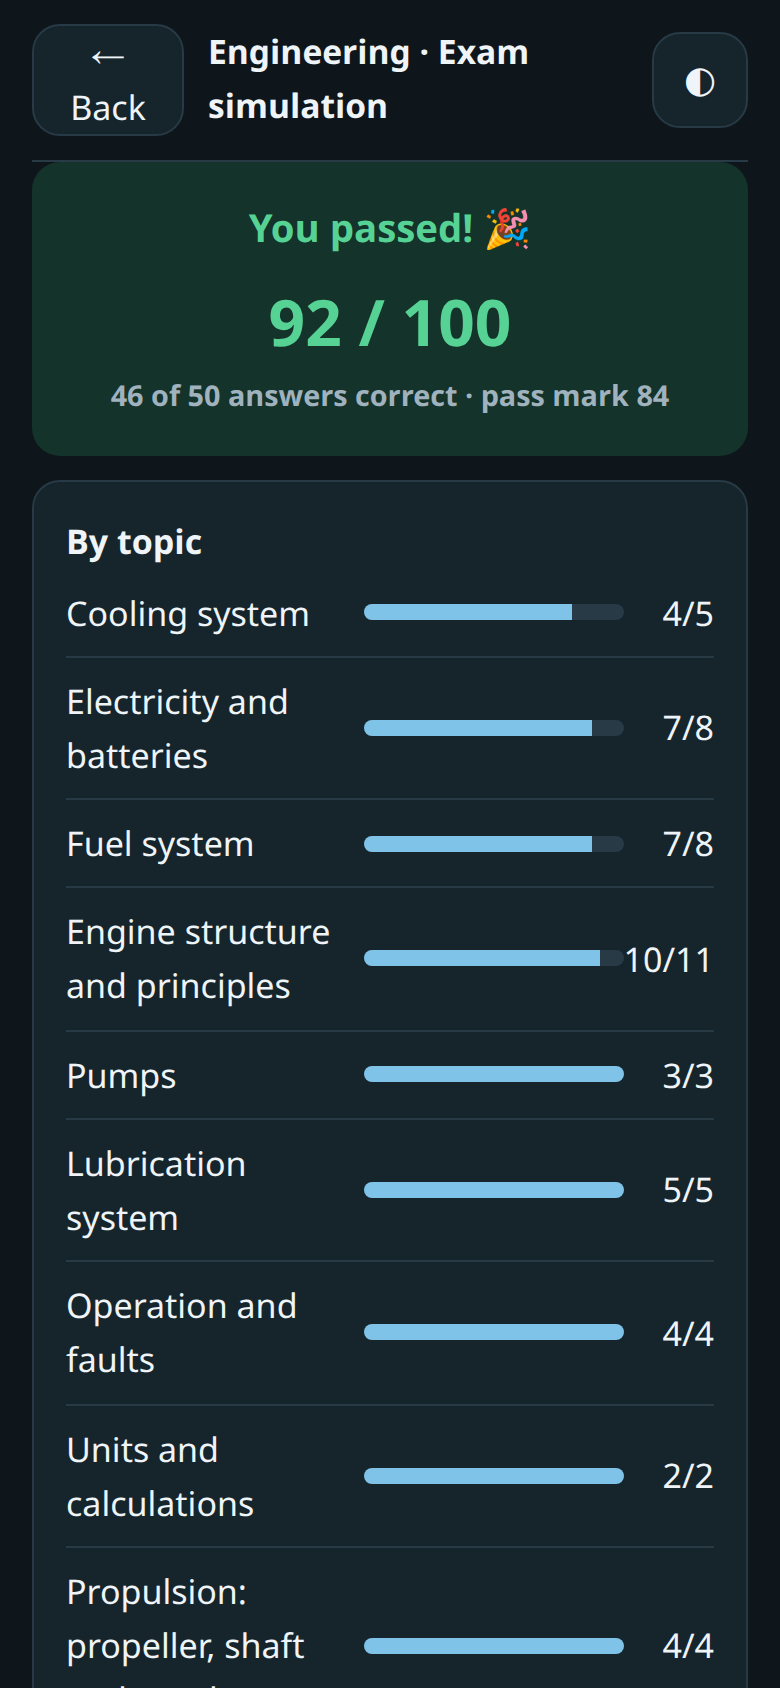
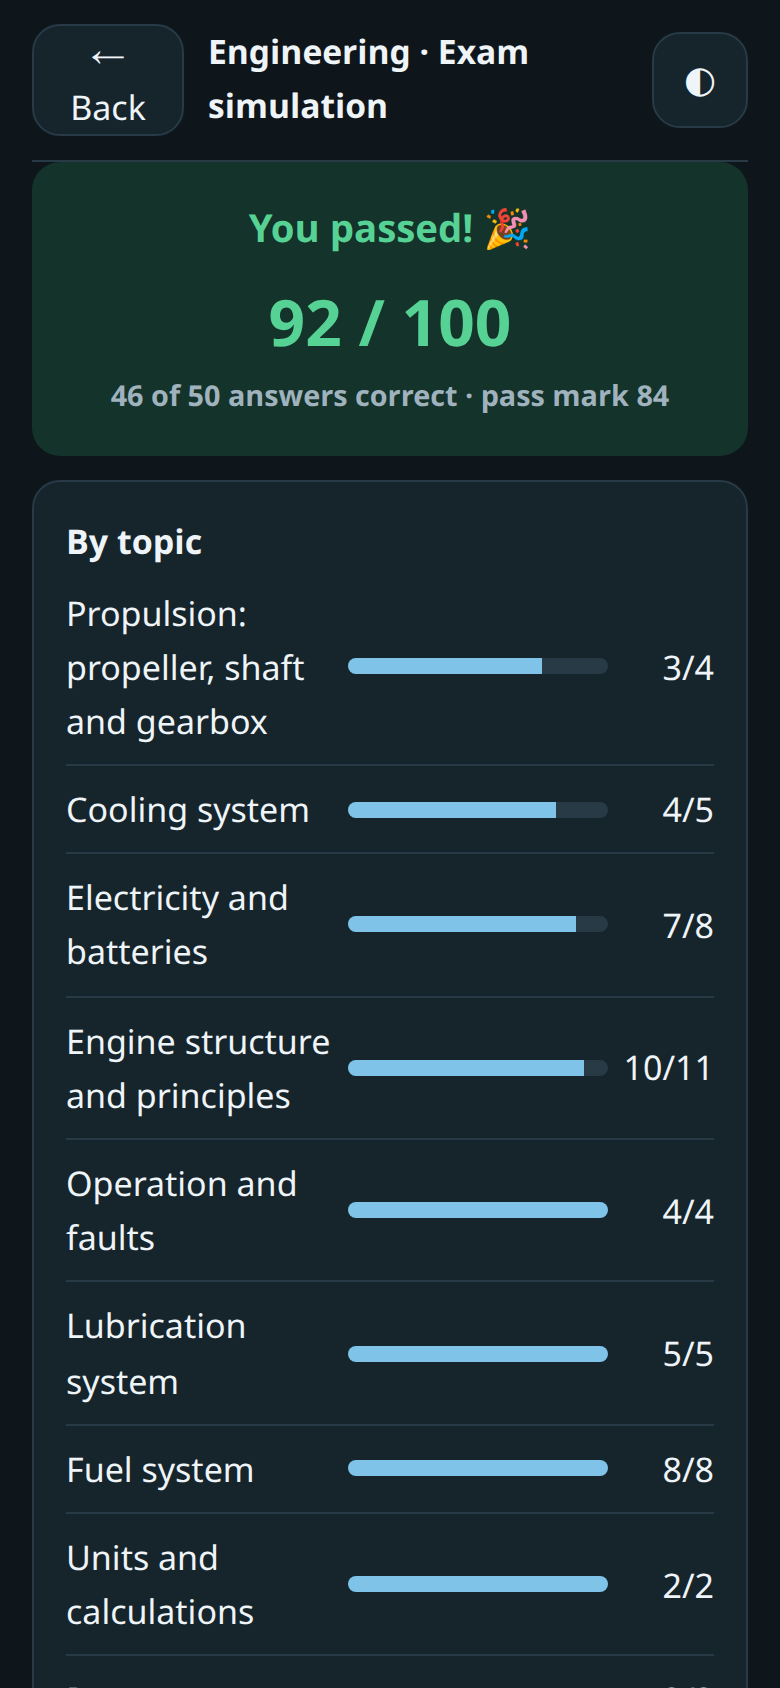
Keep long topic scores off the bar on the results screen
A five-character score such as 10/11 filled its cell and touched the bar,
because only a number following another number had padding. Give every score
cell the padding, which also makes that narrower rule redundant.

Retake the README screenshot, which showed the old layout.

diff --git a/src/styles.css b/src/styles.css
@@ -446,9 +446,8 @@ a { color: var(--brand); }
 
 table.topics { width: 100%; border-collapse: collapse; }
 table.topics td { padding: 8px 0; border-bottom: 1px solid var(--line); vertical-align: middle; }
-table.topics td.num { text-align: end; font-variant-numeric: tabular-nums; white-space: nowrap; }
-/* Two number columns side by side ("25%" then "8/33") must not read as one. */
-table.topics td.num + td.num { padding-inline-start: 8px; }
+/* The gap keeps a long score ("10/11") off the bar or number beside it. */
+table.topics td.num { text-align: end; font-variant-numeric: tabular-nums; white-space: nowrap; padding-inline-start: 8px; }
 
 .sheet { line-height: 1.75; overflow-wrap: anywhere; }
 .sheet table { width: 100%; border-collapse: collapse; margin: 12px 0; display: block; overflow-x: auto; }
